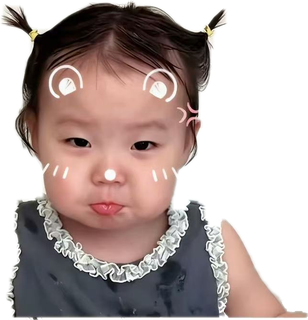
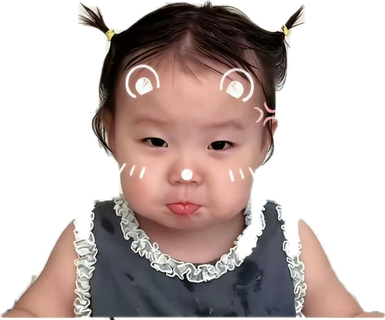
fix: 找回被黑色车把连带丢弃的左手臂
- 左手臂和左车把在二值图里连成一整块，原规则按质心整块丢弃，把手臂一起丢了
- 改为先按颜色在像素层面抠掉近乎纯黑的中性色车把，再判断连通块
- 保留规则增加'面积中等但皮肤占比高'分支，救回位置靠左的手臂
- 闭运算改为方向性（纵向 41 接颈口 / 横向 21 接袖口），避免糊出白色凹口
- 立绘 644x669 -> 804x668，两只手臂齐全

diff --git a/pet/tools/cutout.py b/pet/tools/cutout.py
@@ -1,32 +1,46 @@
 """
-小面宝宝抠图 v5：纯 Pillow 实现（无 numpy / 无 ML 依赖）
+抠图 v10：方向性闭运算
 
-流程：
-  1) 颜色判据标出"可当背景"（亮中性 + 暗投影；偏红的皮肤、暗色衣物/头发不算）
-  2) 从四边连通蔓生吃掉真背景（墙、白椅、椅上投影）
-  3) 连通块过滤：按面积 + 质心水平位置保留主体，丢弃左右黑色车把与顶部暗边
-  4) 大核闭运算接上被白领口断开的头/身
-  5) 填洞：只填"不与边界连通 且 面积小于阈值"的小孔（白领口），
-     避免把椅子坐垫这类大片背景也填成实心
-  6) 开运算去毛刺 + 羽化，输出 RGBA PNG
+v7 用 27×27 的方形闭运算去接白领口断缝，副作用是把手/手臂旁边的椅背白区也糊进轮廓（白色凹口）。
+
+v10 改成有方向的闭运算：
+  * 纵向闭合（竖直长条结构元）—— 专门接"头 ↔ 身体"之间被白领口切断的水平缝
+  * 横向闭合（水平短条结构元）—— 专门接"手臂 ↔ 身体"之间被白荷叶袖切断的竖直缝
+两种方向都不会跨过斜向的大片背景，所以不会糊出白块。
+
+其余沿用 v7：颜色判据 + 四边蔓生 + 剔除黑车把 + 连通块过滤 + 中部小孔填充 + 边缘守卫 + 羽化。
 """
 import sys
 from collections import deque
-from PIL import Image, ImageFilter, ImageDraw, ImageOps
+from PIL import Image, ImageChops, ImageFilter, ImageDraw, ImageOps
 
 SRC = r"C:\Users\13047\DSwork\toys\pet\assets\raw\xiaomian-original.jpg"
 OUT = r"C:\Users\13047\DSwork\toys\pet\assets"
+DBG = r"C:\Users\13047\DSwork\toys\pet\debug"
 
-LUM_SHADOW = 150     # 低于此亮度一定不是背景
-CHROMA_MAX = 24      # 中性色上限
-REDNESS_MAX = 30     # R-B 上限，超过是皮肤
-MIN_AREA = 20000     # 保留块最小面积
+LUM_SHADOW = 150
+CHROMA_MAX = 24
+REDNESS_MAX = 30
+
+MIN_AREA = 20000
+ARM_MIN_AREA = 8000
 CX_LO, CX_HI = 0.22, 0.78
-BRIDGE_R = 27        # 闭运算核：接白领口断缝
-OPEN_R = 9           # 开运算核：去毛刺
-FEATHER = 2.2
-HOLE_MAX = 12000     # 只填小于此面积的孔洞
-BOTTOM_GUARD = 6     # 距底边这么近的空白永不填
+
+HANDLE_LUM = 50
+HANDLE_CHROMA = 10
+HANDLE_MIN_AREA = 2000
+HANDLE_ZONE_X = 0.25
+HANDLE_ZONE_Y = 0.65
+
+CLOSE_V = 41        # 纵向闭合长度（接颈口）
+CLOSE_H = 21        # 横向闭合长度（接袖口）
+ISO_R = 13          # 补充方形闭运算，补掉被吃掉的荷叶边缺口
+OPEN_R = 5
+HOLE_MAX = 12000
+HOLE_CX_LO, HOLE_CX_HI = 0.28, 0.85
+BOTTOM_GUARD = 6
+EDGE_M = 40
+FEATHER = 2.0
 
 
 def bg_candidate(r, g, b):
@@ -35,9 +49,29 @@ def bg_candidate(r, g, b):
         return False
     if max(r, g, b) - min(r, g, b) > CHROMA_MAX:
         return False
-    if r - b > REDNESS_MAX:
-        return False
-    return True
+    return not (r - b > REDNESS_MAX)
+
+
+def shifted(img, dx, dy):
+    out = Image.new("L", img.size, 0)
+    out.paste(img, (dx, dy))
+    return out
+
+
+def dilate_line(img, length, axis):
+    half = length // 2
+    out = img
+    for k in range(1, half + 1):
+        d = (k, 0) if axis == "x" else (0, k)
+        out = ImageChops.lighter(out, shifted(img, *d))
+        out = ImageChops.lighter(out, shifted(img, -d[0], -d[1]))
+    return out
+
+
+def close_line(img, length, axis):
+    """方向性闭运算：沿某个轴用长条结构元先膨胀后腐蚀"""
+    return ImageChops.invert(dilate_line(ImageChops.invert(dilate_line(img, length, axis)),
+                                         length, axis))
 
 
 def main():
@@ -45,12 +79,12 @@ def main():
     w, h = im.size
     px = im.tobytes()
 
+    # 1) 颜色候选 + 2) 四边蔓生
     cand = bytearray(w * h)
     for i in range(w * h):
         if bg_candidate(px[3 * i], px[3 * i + 1], px[3 * i + 2]):
             cand[i] = 1
 
-    # --- 2) 从四边连通蔓生 ---
     bg = bytearray(w * h)
     q = deque()
     for x in range(w):
@@ -71,7 +105,41 @@ def main():
 
     fg = bytearray(1 if not v else 0 for v in bg)
 
-    # --- 3) 连通块过滤 ---
+    # 3) 剔除黑色车把（左车把和左手臂是连成一整块的，只能按颜色在像素层面抠掉）
+    dark_like = bytearray(w * h)
+    for i in range(w * h):
+        r, g, b = px[3 * i], px[3 * i + 1], px[3 * i + 2]
+        lum = (r * 299 + g * 587 + b * 114) // 1000
+        if lum < HANDLE_LUM and (max(r, g, b) - min(r, g, b)) < HANDLE_CHROMA:
+            dark_like[i] = 1
+    seen_h = bytearray(w * h)
+    for start in range(w * h):
+        if not dark_like[start] or seen_h[start]:
+            continue
+        q = deque([start]); seen_h[start] = 1
+        cells = []
+        minx, miny, maxx, maxy = w, h, 0, 0
+        while q:
+            j = q.popleft(); cells.append(j)
+            x, y = j % w, j // w
+            minx = min(minx, x); maxx = max(maxx, x)
+            miny = min(miny, y); maxy = max(maxy, y)
+            for k, ok in ((j - 1, x > 0), (j + 1, x < w - 1), (j - w, y > 0), (j + w, y < h - 1)):
+                if ok and dark_like[k] and not seen_h[k]:
+                    seen_h[k] = 1; q.append(k)
+        cy = (miny + maxy) / 2
+        if (len(cells) >= HANDLE_MIN_AREA and cy > HANDLE_ZONE_Y * h
+                and (maxx < HANDLE_ZONE_X * w or minx > (1 - HANDLE_ZONE_X) * w)):
+            for j in cells:
+                x, y = j % w, j // w
+                for dy in range(-2, 3):
+                    for dx in range(-2, 3):
+                        nx, ny = x + dx, y + dy
+                        if 0 <= nx < w and 0 <= ny < h and fg[ny * w + nx]:
+                            fg[ny * w + nx] = 0
+            print(f"  剔除车把 area={len(cells)} bbox=({minx},{miny},{maxx},{maxy})")
+
+    # 4) 连通块过滤
     lab = [0] * (w * h)
     comps = []
     cur = 0
@@ -79,111 +147,108 @@ def main():
         if fg[i] and not lab[i]:
             cur += 1
             q = deque([i]); lab[i] = cur
-            n = 0; sx = 0
+            n = sx = skin = 0
             while q:
                 j = q.popleft()
                 n += 1
                 x, y = j % w, j // w
                 sx += x
+                r, g, b = px[3 * j], px[3 * j + 1], px[3 * j + 2]
+                lum = (r * 299 + g * 587 + b * 114) // 1000
+                if r - b > 40 and lum > 90:
+                    skin += 1
                 for k, ok in ((j - 1, x > 0), (j + 1, x < w - 1), (j - w, y > 0), (j + w, y < h - 1)):
                     if ok and fg[k] and not lab[k]:
                         lab[k] = cur; q.append(k)
-            comps.append((n, cur, sx / n))
+            comps.append((n, cur, sx / n, skin / n))
 
-    keep = {cid for n, cid, cx in comps if n >= MIN_AREA and CX_LO * w <= cx <= CX_HI * w}
-    print(f"保留块 {sorted(keep)} / 共 {len(comps)} 块")
+    keep = set()
+    for n, cid, cx, skin in sorted(comps, reverse=True):
+        mid = CX_LO * w <= cx <= CX_HI * w
+        if (n >= MIN_AREA and mid) or (n >= ARM_MIN_AREA and skin >= 0.40):
+            keep.add(cid)
+            print(f"  保留 #{cid} area={n} 质心x={cx:.0f} 肤色={skin:.0%}")
+    print(f"保留 {len(keep)} 块 / 共 {len(comps)} 块")
 
     mask = Image.frombytes("L", (w, h), bytes(
         255 if (fg[i] and lab[i] in keep) else 0 for i in range(w * h)))
 
-    # --- 4) 接白领口断缝 ---
-    mask = mask.filter(ImageFilter.MaxFilter(BRIDGE_R)).filter(ImageFilter.MinFilter(BRIDGE_R))
+    # 5) 方向性闭运算
+    mask = close_line(mask, CLOSE_H, "x")
+    mask = close_line(mask, CLOSE_V, "y")
+    if ISO_R:
+        mask = mask.filter(ImageFilter.MaxFilter(ISO_R)).filter(ImageFilter.MinFilter(ISO_R))
+        print(f"补充方形闭运算: {ISO_R}")
 
-    # --- 4.5) 边缘守卫：闭运算会把贴边的窄条背景（照片底部的白桌面）也糊成前景，
-    #           这里把"背景色 + 靠近画面边缘"的像素强制还原成透明
-    EDGE_M = 40
+    # 边缘守卫
     mp = mask.load()
     for y in range(h):
         for x in range(w):
-            if mp[x, y] == 0:
+            if not mp[x, y]:
                 continue
             near = x < EDGE_M or x > w - 1 - EDGE_M or y < EDGE_M or y > h - 1 - EDGE_M
             if near and bg_candidate(px[3 * (y * w + x)], px[3 * (y * w + x) + 1], px[3 * (y * w + x) + 2]):
                 mp[x, y] = 0
-    print("边缘守卫已应用")
 
-    # --- 5) 只在"小且不贴边"的孔洞里填实 ---
-    hole_region = ImageOps.invert(mask)
-    hp = hole_region.load()
+    # 6) 只填中部小孔
+    hole = ImageOps.invert(mask)
+    hp = hole.load()
     solid = mask.load()
     seen = bytearray(w * h)
-    filled_total = 0
+    filled = 0
     for start in range(w * h):
         if hp[start % w, start // w] == 0 or seen[start]:
             continue
         q = deque([start]); seen[start] = 1
-        cells = []
-        touch_bottom = False
+        cells = []; touch = False; sx = 0
         while q:
-            j = q.popleft()
-            cells.append(j)
+            j = q.popleft(); cells.append(j)
             x, y = j % w, j // w
+            sx += x
             if y >= h - BOTTOM_GUARD or x == 0 or x == w - 1 or y == 0:
-                touch_bottom = True
+                touch = True
             for k, ok in ((j - 1, x > 0), (j + 1, x < w - 1), (j - w, y > 0), (j + w, y < h - 1)):
                 if ok and not seen[k] and hp[k % w, k // w] > 0:
                     seen[k] = 1; q.append(k)
-        if not touch_bottom and len(cells) <= HOLE_MAX:
+        cx = sx / len(cells)
+        if not touch and HOLE_CX_LO * w <= cx <= HOLE_CX_HI * w and len(cells) <= HOLE_MAX:
             for j in cells:
                 solid[j % w, j // w] = 255
-            filled_total += len(cells)
-    print(f"填充小孔: {filled_total} px")
+            filled += len(cells)
+    print(f"填充小孔: {filled} px")
 
-    # --- 6) 开运算 + 羽化 ---
     mask = mask.filter(ImageFilter.MinFilter(OPEN_R)).filter(ImageFilter.MaxFilter(OPEN_R))
     mask = mask.filter(ImageFilter.GaussianBlur(FEATHER))
 
-    # --- 6.5) 羽化会把边缘守卫清掉的浅色又"糊"回来一圈，这里再守一次 ---
     mp = mask.load()
     for y in range(h):
         for x in range(w):
-            v = mp[x, y]
-            if not v:
+            if not mp[x, y]:
                 continue
             near = x < EDGE_M or x > w - 1 - EDGE_M or y < EDGE_M or y > h - 1 - EDGE_M
             if near and bg_candidate(px[3 * (y * w + x)], px[3 * (y * w + x) + 1], px[3 * (y * w + x) + 2]):
                 mp[x, y] = 0
-    print("羽化后二次守卫完成")
 
     out = im.convert("RGBA")
     out.putalpha(mask)
     bbox = mask.point(lambda v: 255 if v > 10 else 0).getbbox()
     cut = out.crop(bbox)
-    print("裁剪框:", bbox, "-> 尺寸", cut.size)
+    print("裁剪框:", bbox, "尺寸", cut.size)
 
-    # 校验：底部几行不该有大片不透明的浅色
-    cp = cut.load()
-    cw, ch = cut.size
-    bad = 0
-    for y in range(max(0, ch - 6), ch):
-        for x in range(0, cw, 4):
-            r, g, b, a = cp[x, y]
-            if a > 200 and min(r, g, b) > 200:
-                bad += 1
-    print(f"底部白色残留采样点: {bad}（应为 0）")
-
-    cut.save(rf"{OUT}\xiaomian-cutout-v7.png")
+    tag = "final"
+    cut.save(rf"{OUT}\xiaomian-cutout-{tag}.png")
+    mask.save(rf"{DBG}\mask-{tag}.png")
 
     pw, ph = cut.size
     prev = Image.new("RGB", (pw, ph), (255, 255, 255))
     d = ImageDraw.Draw(prev)
-    for y in range(0, ph, 24):
-        for x in range(0, pw, 24):
-            if ((x // 24) + (y // 24)) % 2 == 0:
-                d.rectangle([x, y, x + 23, y + 23], fill=(226, 226, 226))
+    for y in range(0, ph, 20):
+        for x in range(0, pw, 20):
+            if ((x // 20) + (y // 20)) % 2 == 0:
+                d.rectangle([x, y, x + 19, y + 19], fill=(222, 222, 222))
     prev.paste(cut, (0, 0), cut)
-    prev.save(r"C:\Users\13047\DSwork\toys\pet\debug\checker-v7.png")
-    print("预览 -> debug/checker-v7.png")
+    prev.save(rf"{DBG}\checker-{tag}.png")
+    print(f"预览 -> debug/checker-{tag}.png")
 
 
 if __name__ == "__main__":

diff --git a/pet/tools/finalize.py b/pet/tools/finalize.py
@@ -1,16 +1,15 @@
 from PIL import Image
 base = r"C:\Users\13047\DSwork\toys\pet\assets"
-im = Image.open(base + r"\xiaomian-cutout-v7.png").convert("RGBA")
+im = Image.open(base + r"\xiaomian-cutout-final.png").convert("RGBA")
 bbox = im.split()[3].point(lambda v: 255 if v > 8 else 0).getbbox()
 im = im.crop(bbox)
 im.save(base + r"\xiaomian.png")
 print("正式素材:", im.size)
-for target_h in (320, 160):
-    r = target_h / im.size[1]
-    s = im.resize((round(im.size[0]*r), target_h), Image.LANCZOS)
-    s.save(base + rf"\xiaomian-{target_h}h.png")
-    print(f"缩放版 {target_h}h ->", s.size)
-# 校验底部
-px = im.load(); w,h = im.size
+for th in (320, 160):
+    r = th / im.size[1]
+    s = im.resize((round(im.size[0]*r), th), Image.LANCZOS)
+    s.save(base + rf"\xiaomian-{th}h.png")
+    print(f"  {th}h ->", s.size)
+px = im.load(); w, h = im.size
 bad = sum(1 for y in range(h-6, h) for x in range(0, w, 4) if px[x,y][3] > 8 and min(px[x,y][:3]) > 200)
-print("底部浅色残留:", bad)
+print("底部浅色残留采样:", bad)

diff --git a/pet/README.md b/pet/README.md
@@ -1,4 +1,4 @@
-# 小面宝宝桌宠 🍼
+# 小面宝宝桌宠 🍼
 
 用宝宝照片做的 Windows 桌面宠物。**只在 DSH Desktop 运行时出现**，关掉就自动躲起来。
 
@@ -35,7 +35,7 @@ pet/
 ├─ state.json              记住的位置（自动生成，不进版本库）
 ├─ pet.log                 出错日志（自动生成）
 ├─ assets/
-│  ├─ xiaomian.png         抠好的立绘 644×669 透明 PNG
+│  ├─ xiaomian.png         抠好的立绘 804×668 透明 PNG（含两只手臂）
 │  ├─ xiaomian-320h.png    桌宠实际用的尺寸
 │  ├─ xiaomian-160h.png    小尺寸备用
 │  └─ raw/                 原图（未抠）
@@ -61,8 +61,17 @@ pet/
 **性能**：单帧渲染 5–13 ms（含旋转、缩放、气泡、预乘 alpha），定时器 16 ms 一帧，占用很低（约 68 MB 内存）。
 
 **抠图**：不用 AI 模型，纯 Pillow 手写流程 —— 颜色判据区分"低饱和浅色背景"和"偏红皮肤"→
-从四边连通蔓生 → 按面积+质心剔除左右黑车把 → 大核闭运算接上被白领口断开的头身 →
-只填小孔洞（避免把椅子坐垫填成实心）→ 边缘守卫 + 羽化。细节见 `tools/cutout.py` 文件头注释。
+从四边连通蔓生 → 剔除左右黑色车把 → 方向性闭运算（纵向接白领口断缝、横向接白荷叶袖断缝）→
+只填画面中部的小孔 → 边缘守卫 + 羽化。细节见 `tools/cutout.py` 文件头注释。
+
+> **为什么不能按连通块整块丢弃**：左边手臂和左边黑色车把手在二值图里是**连成一整块**的
+> （手臂搭在车把前面）。所以必须先按颜色（近乎纯黑的中性色）把车把在像素层面抠掉，
+> 再判断连通块；否则"质心太靠边就丢"的规则会把手臂一起丢掉。
+>
+> **为什么用方向性闭运算**：白领口和白荷叶袖和白色椅背颜色重叠，会被当成背景吃掉，
+> 需要在断缝处补回来。用 27×27 的方形闭运算补得过头，会把手/手臂旁边的椅背白区也糊进
+> 轮廓（出现白色凹口）；改成纵向 41px + 横向 21px 的有方向闭运算，只跨过缝、不跨过斜面。
+
 
 ---
 
